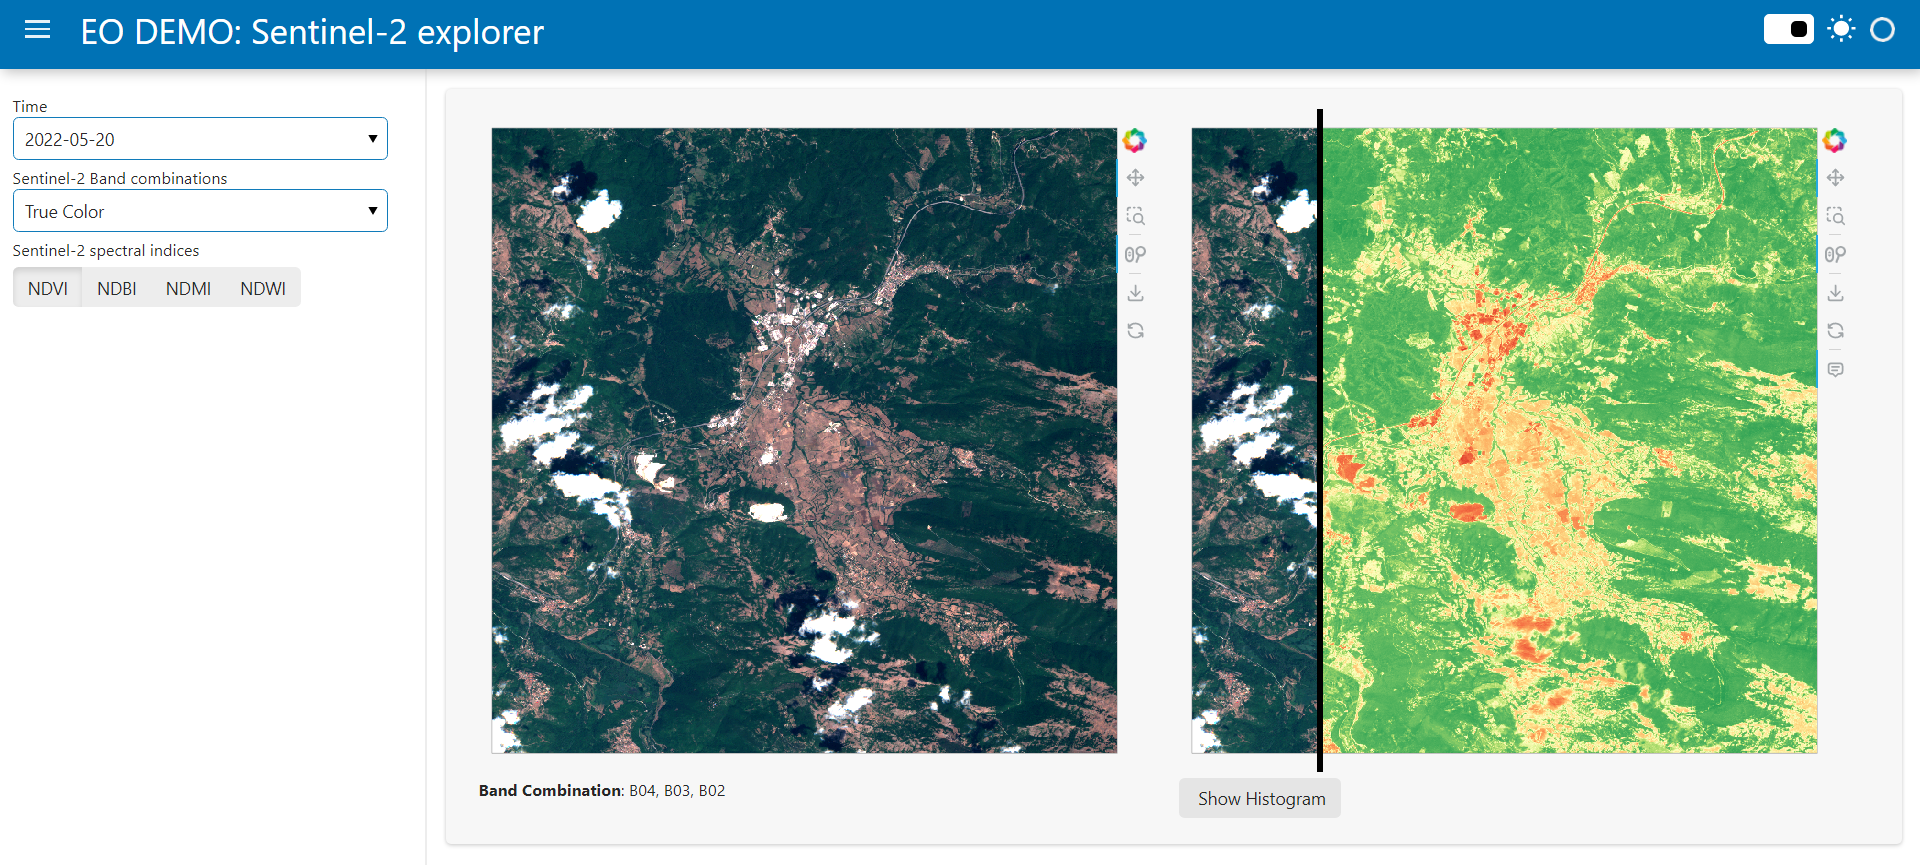
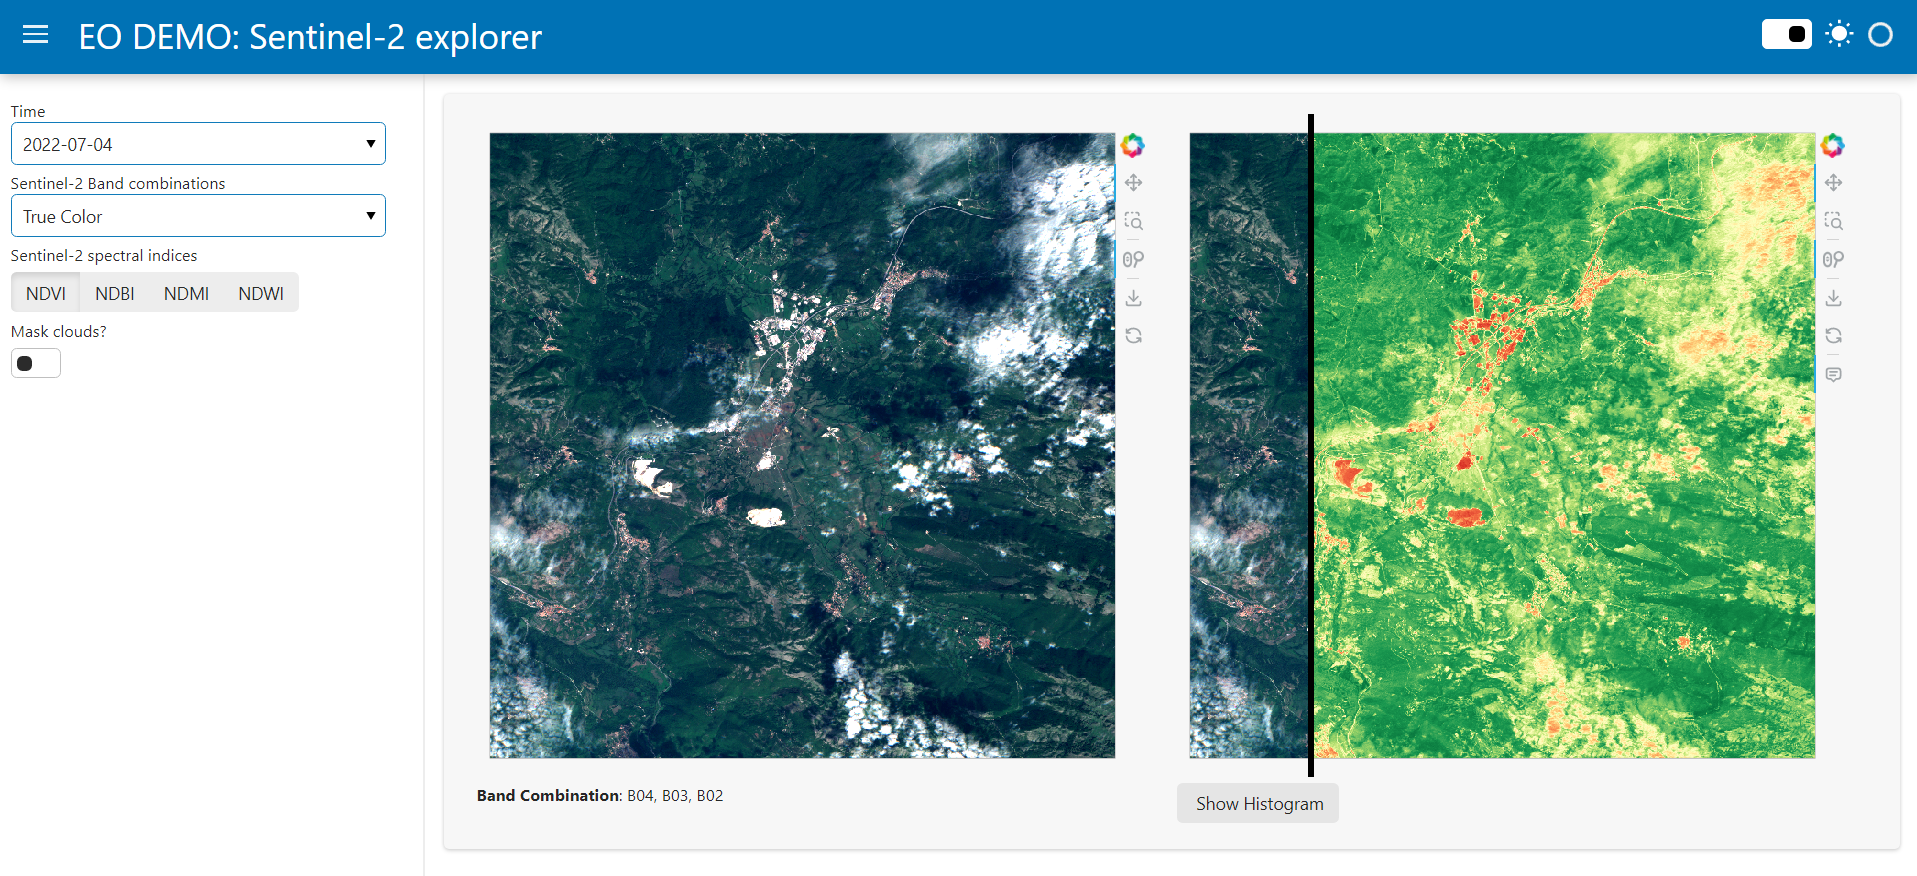
Add cloud masking

diff --git a/eo-panel-app/app.py b/eo-panel-app/app.py
@@ -24,29 +24,29 @@ S2_SPINDICES = {
     "NDVI": {
         "name": "NDVI",
         "fullname": "Normalized difference vegetation index",
-        "band0": "B08",
-        "band1": "B04",
+        "b0": "B08",
+        "b1": "B04",
         "cmap": "RdYlGn",
     },
     "NDBI": {
         "name": "NDBI",
         "fullname": "Normalized Difference Built-up Index",
-        "band0": "B11",
-        "band1": "B08",
+        "b0": "B11",
+        "b1": "B08",
         "cmap": "Greys",
     },
     "NDMI": {
         "name": "NDMI",
         "fullname": "Normalized Difference Moisture Index",
-        "band0": "B8A",
-        "band1": "B11",
+        "b0": "B8A",
+        "b1": "B11",
         "cmap": "RdYlBu",
     },
     "NDWI": {
         "name": "NDWI",
         "fullname": "Normalized Difference Water Index",
-        "band0": "B03",
-        "band1": "B08",
+        "b0": "B03",
+        "b1": "B08",
         "cmap": "Blues",
     },
 }
@@ -92,7 +92,7 @@ def s2_contrast_stretch(in_data):
     return out_data
 
 
-def plot_true_color_image(in_data, time):
+def plot_true_color_image(in_data, time, mask_clouds):
     """
     A function that plots the True Color band combination.
     """
@@ -123,13 +123,26 @@ def plot_true_color_image(in_data, time):
     # Contrast stretching
     out_data.data = s2_contrast_stretch(out_data.data)
 
+    if mask_clouds:
+        # Assign a value of 255 to the pixels representing clouds
+        out_data = out_data.where(out_data.mask == 0, 255)
+
+    b0 = out_data.sel(band="B04").data
+    b1 = out_data.sel(band="B03").data
+    b2 = out_data.sel(band="B02").data
+
+    # Create masked arrays
+    b0_mask = np.ma.masked_where(b0 == 255, b0)
+    b1_mask = np.ma.masked_where(b1 == 255, b1)
+    b2_mask = np.ma.masked_where(b2 == 255, b2)
+
     # Plot the image
     plot_data = dict(
         x=out_data["x"],
         y=out_data["y"],
-        r=out_data.sel(band="B04").data,
-        g=out_data.sel(band="B03").data,
-        b=out_data.sel(band="B02").data,
+        r=b0_mask,
+        g=b1_mask,
+        b=b2_mask,
     )
 
     the_plot = hv.RGB(
@@ -160,7 +173,7 @@ def get_band_comb_text(band_comb):
     return band_comb_text
 
 
-def plot_s2_band_comb(in_data, time, band_comb):
+def plot_s2_band_comb(in_data, time, band_comb, mask_clouds):
     """
     A function that plots the selected band combination.
     """
@@ -191,13 +204,26 @@ def plot_s2_band_comb(in_data, time, band_comb):
     # Contrast stretching
     out_data.data = s2_contrast_stretch(out_data.data)
 
+    if mask_clouds:
+        # Assign a value of 255 to the pixels representing clouds
+        out_data = out_data.where(out_data.mask == 0, 255)
+
+    b0 = out_data.sel(band=band_comb[0]).data
+    b1 = out_data.sel(band=band_comb[1]).data
+    b2 = out_data.sel(band=band_comb[2]).data
+
+    # Create masked arrays
+    b0_mask = np.ma.masked_where(b0 == 255, b0)
+    b1_mask = np.ma.masked_where(b1 == 255, b1)
+    b2_mask = np.ma.masked_where(b2 == 255, b2)
+
     # Plot the image
     plot_data = dict(
         x=out_data["x"],
         y=out_data["y"],
-        r=out_data.sel(band=band_comb[0]).data,
-        g=out_data.sel(band=band_comb[1]).data,
-        b=out_data.sel(band=band_comb[2]).data,
+        r=b0_mask,
+        g=b1_mask,
+        b=b2_mask,
     )
 
     the_plot = hv.RGB(
@@ -215,20 +241,25 @@ def plot_s2_band_comb(in_data, time, band_comb):
     return the_plot
 
 
-def compute_s2_spindex(s2_spindex_name, band0, band1):
+def assign_spindex_to_cache(s2_spindex_name, spindex):
+    """
+    This function assign the spectral index array to the panel state cache
+    so that it can be used for the histogram floatpanel widget.
+    """
+    pn.state.cache["spindex"] = {"name": s2_spindex_name, "np_array": spindex}
+
+
+def compute_s2_spindex(b0, b1):
     """
     This function calculates the selected spectral index
     for the target image.
     """
-    spindex = (band0 - band1) / (band0 + band1)
-
-    # Assign the array to the cache so that it can be used for the histogram floatpanel
-    pn.state.cache["spindex"] = {"name": s2_spindex_name, "np_array": spindex}
+    spindex = (b0 - b1) / (b0 + b1)
 
     return spindex
 
 
-def plot_s2_spindex(in_data, time, s2_spindex):
+def plot_s2_spindex(in_data, time, s2_spindex, mask_clouds):
     """
     A function that plots the selected Sentinel-2 spectral index.
     """
@@ -263,12 +294,22 @@ def plot_s2_spindex(in_data, time, s2_spindex):
     )
 
     # Calculate the selected spectral index
-    band0 = out_data.sel(band=s2_spindex["band0"]).data
-    band1 = out_data.sel(band=s2_spindex["band1"]).data
-    plot_data = compute_s2_spindex(s2_spindex_name, band0, band1)
+    b0 = out_data.sel(band=s2_spindex["b0"]).data
+    b1 = out_data.sel(band=s2_spindex["b1"]).data
+    plot_data = compute_s2_spindex(b0, b1)
+
+    if mask_clouds:
+        # Assign a value of 255 to the pixels representing clouds
+        plot_data[out_data.mask == 1] = 255
+
+    # Create a masked array
+    plot_data_mask = np.ma.masked_where(plot_data == 255, plot_data)
+
+    # Assign this array to the pn.cache
+    assign_spindex_to_cache(s2_spindex_name, plot_data_mask)
 
     # Plot the computed spectral index
-    the_plot = hv.Image((out_data["x"], out_data["y"], plot_data)).opts(
+    the_plot = hv.Image((out_data["x"], out_data["y"], plot_data_mask)).opts(
         xlabel="",
         ylabel="",
         cmap=s2_spindex["cmap"],
@@ -279,7 +320,7 @@ def plot_s2_spindex(in_data, time, s2_spindex):
     )
 
     # Get the True Color Image
-    true_color = plot_true_color_image(in_data, time)
+    true_color = plot_true_color_image(in_data, time, mask_clouds)
 
     return pn.Swipe(true_color, the_plot)
 
@@ -295,6 +336,9 @@ def plot_s2_spindex_hist(event):
 
     spindex_name = spindex_cache["name"]
     spindex_array = spindex_cache["np_array"]
+
+    # Remove the masked values
+    spindex_array = spindex_array.compressed()
 
     # Calculates the histogram
     frequencies, edges = np.histogram(spindex_array, 20)
@@ -349,6 +393,14 @@ def create_s2_dashboard():
         options=S2_SPINDICES,
     )
 
+    # Histogram button
+    show_hist_bt = pn.widgets.Button(name="Show Histogram")
+    show_hist_bt.on_click(plot_s2_spindex_hist)
+
+    # Mask clouds Switch
+    swt_title = pn.widgets.StaticText(name="", value="Mask clouds?")
+    clm_switch = pn.widgets.Switch(name="Switch")
+
     # Bind plots to the selectors
     s2_band_comb_text_bind = pn.bind(
         get_band_comb_text,
@@ -360,6 +412,7 @@ def create_s2_dashboard():
         in_data=s2_data,
         time=time_select,
         band_comb=s2_band_comb_select,
+        mask_clouds=clm_switch,
     )
 
     s2_spindex_bind = pn.bind(
@@ -367,10 +420,8 @@ def create_s2_dashboard():
         in_data=s2_data,
         time=time_select,
         s2_spindex=s2_spindices_tg,
+        mask_clouds=clm_switch,
     )
-
-    show_hist_bt = pn.widgets.Button(name="Show Histogram")
-    show_hist_bt.on_click(plot_s2_spindex_hist)
 
     main_layout = pn.Row(
         pn.Column(s2_band_comb_bind, s2_band_comb_text_bind),
@@ -388,6 +439,8 @@ def create_s2_dashboard():
             s2_band_comb_select,
             tg_title,
             s2_spindices_tg,
+            swt_title,
+            clm_switch,
         ],
     )
 
